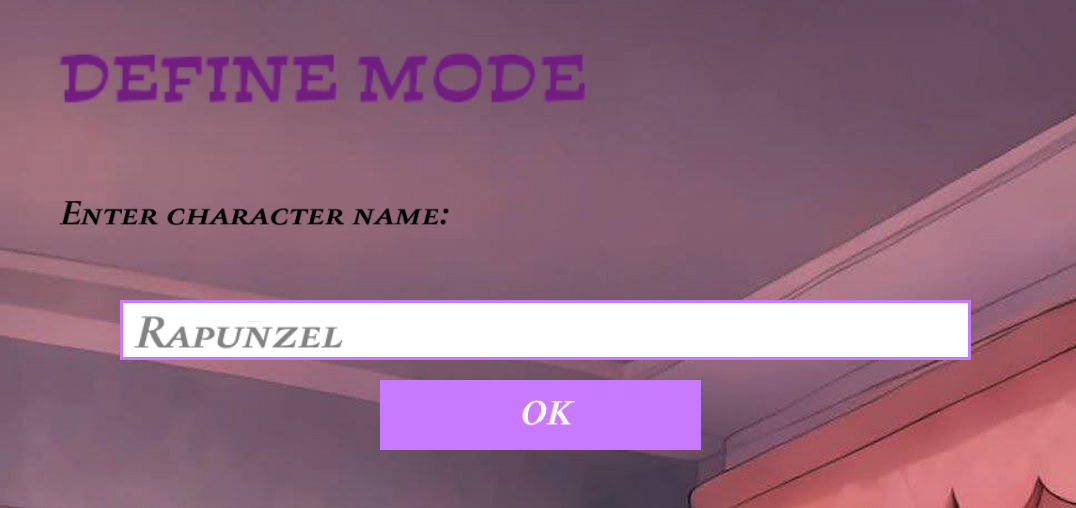
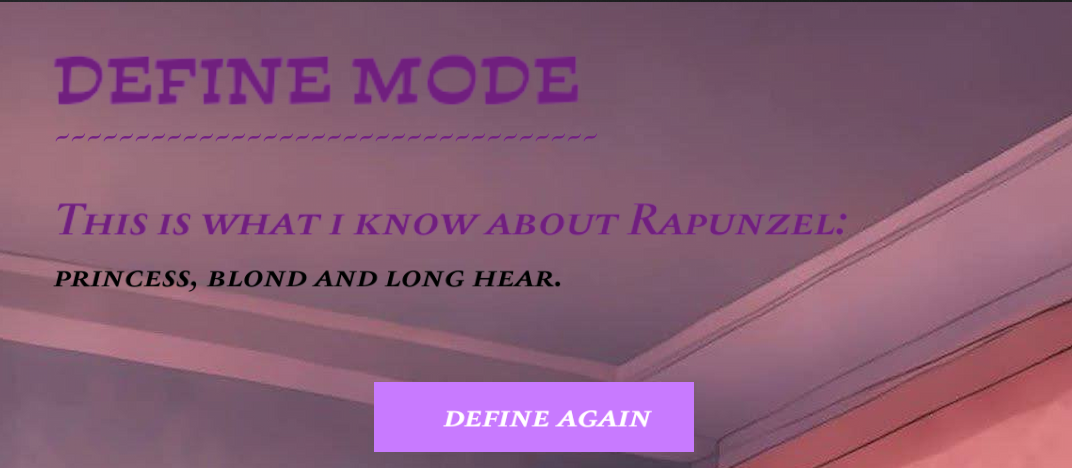
Update Def and Dif modes

diff --git a/BIN_TREE/graph_tree_dump.html b/BIN_TREE/graph_tree_dump.html
@@ -7,96 +7,96 @@ Dump was summoned in
 
 Current parametres:
 ====== struct TREE_T ======
-       list: [000000989B5FFB48]    
-       root: [000001F517AF49D0]    
+       list: [000000F5EDFFF618]    
+       root: [0000025E26A81A20]    
 
 
 ===== DATA =====
-node [ 000001F517AF49D0 ]
+node [ 0000025E26A81A20 ]
 value: princess
-left node [ 000001F517AF4A70 ]
-right node [ 000001F517AF4D30 ]
+left node [ 0000025E26A81760 ]
+right node [ 0000025E26A814A0 ]
 
 
-node [ 000001F517AF4A70 ]
+node [ 0000025E26A81760 ]
 value: blond
-left node [ 000001F517AF4870 ]
-right node [ 000001F517AF47B0 ]
+left node [ 0000025E26A814E0 ]
+right node [ 0000025E26A81560 ]
 
 
-node [ 000001F517AF4870 ]
+node [ 0000025E26A814E0 ]
 value: long hear
-left node [ 000001F517AF48D0 ]
-right node [ 000001F517AF48F0 ]
+left node [ 0000025E26A815C0 ]
+right node [ 0000025E26A81880 ]
 
 
-node [ 000001F517AF48D0 ]
+node [ 0000025E26A815C0 ]
 value: Rapunzel
 left node [ 0000000000000000 ]
 right node [ 0000000000000000 ]
 
 
-node [ 000001F517AF48F0 ]
+node [ 0000025E26A81880 ]
 value: Cenderella
 left node [ 0000000000000000 ]
 right node [ 0000000000000000 ]
 
 
-node [ 000001F517AF47B0 ]
+node [ 0000025E26A81560 ]
 value: red hear
-left node [ 000001F517AF4B50 ]
-right node [ 000001F517AF4B70 ]
+left node [ 0000025E26A814C0 ]
+right node [ 0000025E26A818A0 ]
 
 
-node [ 000001F517AF4B50 ]
+node [ 0000025E26A814C0 ]
 value: Mirida
 left node [ 0000000000000000 ]
 right node [ 0000000000000000 ]
 
 
-node [ 000001F517AF4B70 ]
+node [ 0000025E26A818A0 ]
 value: Moana
 left node [ 0000000000000000 ]
 right node [ 0000000000000000 ]
 
 
-node [ 000001F517AF4D30 ]
+node [ 0000025E26A814A0 ]
 value: animal
-left node [ 000001F517AF49F0 ]
-right node [ 000001F517AF4990 ]
+left node [ 0000025E26A81620 ]
+right node [ 0000025E26A81A60 ]
 
 
-node [ 000001F517AF49F0 ]
+node [ 0000025E26A81620 ]
 value: boar
-left node [ 000001F517AF4DD0 ]
-right node [ 000001F517AF4950 ]
+left node [ 0000025E26A81540 ]
+right node [ 0000025E26A81960 ]
 
 
-node [ 000001F517AF4DD0 ]
+node [ 0000025E26A81540 ]
 value: Pumba
 left node [ 0000000000000000 ]
 right node [ 0000000000000000 ]
 
 
-node [ 000001F517AF4950 ]
+node [ 0000025E26A81960 ]
 value: Meerkat
-left node [ 000001F517AF4970 ]
-right node [ 000001F517AF4DF0 ]
+left node [ 0000025E26A816C0 ]
+right node [ 0000025E26A81500 ]
 
 
-node [ 000001F517AF4970 ]
+node [ 0000025E26A816C0 ]
 value: Timon
 left node [ 0000000000000000 ]
 right node [ 0000000000000000 ]
 
 
-node [ 000001F517AF4DF0 ]
+node [ 0000025E26A81500 ]
 value: Lion King
 left node [ 0000000000000000 ]
 right node [ 0000000000000000 ]
 
 
-node [ 000001F517AF4990 ]
+node [ 0000025E26A81A60 ]
 value: Aladin
 left node [ 0000000000000000 ]
 right node [ 0000000000000000 ]

diff --git a/AKINATOR_GAME/GAME_APP/app_def_dif.cpp b/AKINATOR_GAME/GAME_APP/app_def_dif.cpp
@@ -74,6 +74,7 @@ app_error_t update_define(app_state_t* app)
 app_error_t draw_define(app_state_t* app, Font font_text, Font font_headers)
 {
     DrawTextEx(font_headers, "DEFINE MODE", (Vector2){60, 50}, 70, 1, DARKPURPLE);
+    DrawTextEx(font_text, "~~~~~~~~~~~~~~~~~~~~~~~~~~~~~~~~~~", (Vector2){60, 120}, 30, 1, DARKPURPLE);
     draw_button(get_back_button(), "back", font_text);
 
     if (app->mode_stage == MODE_INPUT_FIRST)
@@ -94,24 +95,48 @@ app_error_t draw_define(app_state_t* app, Font font_text, Font font_headers)
         DrawTextEx(font_text, "Sorry, unknown character", (Vector2){60, 200}, 30, 1, MAROON);
     }
 
-    else 
+    else
     {
-        DrawTextEx(font_text, TextFormat("This is what i know about %s", app->name_buffer), (Vector2){60, 200}, 30, 1, DARKPURPLE);
+        DrawTextEx(font_text, TextFormat("This is what i know about %s:", app->name_buffer),
+                  (Vector2){60, 200}, 40, 1, DARKPURPLE);
+
+        char sentence[MAX_SENTENCE_SIZE] = "";
 
         for (size_t i = 0; i < path_size; i++)
         {
-            if (path[i].answer == false)
+            strcat(sentence, path[i].answer ? "" : "not");
+            strcat(sentence, (const char*) path[i].question_node->value);
+
+            if (i == path_size - 2)
             {
-                DrawTextEx(font_text, TextFormat("%s  : %s", path[i].question_node->value, "no"), 
-                          (Vector2){60, 260 + (float) 35 * i}, 30, 1, BLACK);
+                strcat(sentence, " and ");
             }
 
-            else 
+            else if (i < path_size - 1)
             {
-                DrawTextEx(font_text, TextFormat("%s  : %s", path[i].question_node->value, "yes"), 
-                          (Vector2){60, 260 + (float) 35 * i}, 30, 1, BLACK);
+                strcat(sentence, ", ");
+            }
+
+            else
+            {
+                strcat(sentence, ".");
             }
         }
+
+        size_t line_length = 0;
+
+        for (size_t i = 0; sentence[i] != '\0'; i++)
+        {
+            line_length++;
+
+            if (line_length >= 40 && sentence[i] == ' ')
+            {
+                sentence[i] = '\n';
+                line_length = 0;
+            }
+        }
+
+        DrawTextEx(font_text, sentence, (Vector2){60, 260}, 30, 1, BLACK);
     }
 
     draw_button(get_single_button(), "define again", font_text);
@@ -155,6 +180,7 @@ app_error_t update_difference(app_state_t* app)
 app_error_t draw_difference(app_state_t* app, Font font_text, Font font_headers)
 {
     DrawTextEx(font_headers, "DIFFERENCE MODE", (Vector2){60, 50}, 70, 1, DARKPURPLE);
+    DrawTextEx(font_text, "~~~~~~~~~~~~~~~~~~~~~~~~~~~~~~~~~~~~~~~~~~~~~", (Vector2){60, 120}, 30, 1, DARKPURPLE);
     draw_button(get_back_button(), "back", font_text);
 
     if (app->mode_stage == MODE_INPUT_FIRST)
@@ -199,37 +225,52 @@ app_error_t draw_difference(app_state_t* app, Font font_text, Font font_headers)
         return APP_SUCCESS;
     }
 
-    DrawTextEx(font_text, TextFormat("The %s is similar to %s in that they both", app->name_buffer, app->question_buffer), (Vector2){60, 200}, 35, 1, BLACK);
-    
     char buffer[1024] = {};
+    size_t used = 0;
     size_t ptr = 0;
-    
-    while (ptr < first_size && ptr < second_size && first_path[ptr].question_node == second_path[ptr].question_node &&
-            first_path[ptr].answer == second_path[ptr].answer)
+
+    while (ptr < first_size && ptr < second_size &&
+           first_path[ptr].question_node == second_path[ptr].question_node &&
+           first_path[ptr].answer == second_path[ptr].answer)
     {
-        if (ptr >= first_size || ptr >= second_size)
-        {
-            DrawTextEx(font_text, "It is the same character.", (Vector2){60, 200}, 35, 1, BLACK);
+        int written = snprintf(buffer + used, sizeof(buffer) - used,
+                               "%s%s%s",
+                               ptr > 0 ? ", " : "",
+                               first_path[ptr].answer ? "" : "not ",
+                               (char*) first_path[ptr].question_node->value);
+
+        if (written < 0 || (size_t) written >= sizeof(buffer) - used)
             break;
-        }
 
-        snprintf(buffer, 1024, "%s %s, ",  first_path[ptr].answer ? "" : "not", (char*) first_path[ptr].question_node->value);
+        used += (size_t) written;
+        ptr++;
     }
-    
-    DrawTextEx(font_text, buffer, (Vector2){60, 240}, 35, 1, BLACK);
 
-    while (ptr < first_size && ptr < second_size)
+    if (ptr > 0)
     {
-
+        DrawTextEx(font_text, TextFormat("%s and %s are similar: they both %s.",
+                              app->name_buffer, app->question_buffer, buffer), (Vector2){60, 200}, 30, 1, BLACK);
     }
-        DrawTextEx(font_text, "Differences:", (Vector2){60, 200}, 40, 1, DARKPURPLE);
-        DrawTextEx(font_text, TextFormat("%s?", (char*) first_path[ptr].question_node->value),
-                    (Vector2){60, 260}, 35, 1, BLACK);
-        DrawTextEx(font_text, TextFormat("%s: %s", app->name_buffer, first_path[ptr].answer ? "YES" : "NO"),
-                    (Vector2){60, 300}, 35, 1, BLACK);
-        DrawTextEx(font_text, TextFormat("%s: %s", app->question_buffer, second_path[ptr].answer ? "YES" : "NO"),
-                    (Vector2){60, 340}, 35, 1, BLACK);
 
+    if (ptr >= first_size || ptr >= second_size)
+    {
+        DrawTextEx(font_text, "They are identical!", (Vector2){60, 320}, 35, 1, DARKPURPLE);
+    }
+    else
+    {
+        char* quest = (char*) first_path[ptr].question_node->value;
+
+        DrawTextEx(font_text, "Differences:", (Vector2){60, 270}, 35, 1, DARKPURPLE);
+
+        DrawTextEx(font_text, TextFormat("%s %s %s, but %s %s %s.",
+                              app->name_buffer,
+                              first_path[ptr].answer ? "is" : "is not", quest,
+                              app->question_buffer,
+                              second_path[ptr].answer ? "is" : "is not", quest), 
+                              (Vector2){60, 310}, 30, 1, BLACK);
+    }
+
+    draw_button(get_single_button(), "compare again", font_text);
 
     return APP_SUCCESS;
 }

diff --git a/AKINATOR_GAME/GAME_APP/app_guess.cpp b/AKINATOR_GAME/GAME_APP/app_guess.cpp
@@ -331,7 +331,7 @@ app_error_t draw_guess(app_state_t* app, Font font_text, Font font_headers)
 {
     if (app == NULL) return APP_ERROR;
     DrawTextEx(font_headers, "GUESS MODE", (Vector2){60, 50}, 70, 1, DARKPURPLE);
-    DrawTextEx(font_text, "~~~~~~~~~~~~~~~~~~~~~~~~~~~~~~~~~~~~~", (Vector2){60, 120}, 30, 1, DARKPURPLE);
+    DrawTextEx(font_text, "~~~~~~~~~~~~~~~~~~~~~~~~~~~~~~~~", (Vector2){60, 120}, 30, 1, DARKPURPLE);
     draw_button(get_back_button(), "back", font_text);
 
     char* text = (char*) app->current_node->value;

diff --git a/AKINATOR_GAME/GAME_APP/app_def_dif.h b/AKINATOR_GAME/GAME_APP/app_def_dif.h
@@ -4,7 +4,9 @@
 #include "app_common.h"
 #include "app_buttons.h"
 #include "../../AKINATOR_GAME/CONSOLE/akinator.h"
+#include "string.h"
 
+const size_t MAX_SENTENCE_SIZE = 2048;
 void reset_mode_input(app_state_t* app);
 
 app_error_t update_define(app_state_t* app);

diff --git a/README.md b/README.md
@@ -89,4 +89,3 @@ sudo apt install build-essential graphviz
 _Графический Dump_ - текстовый и графический вывод состяния дерева, который нужен для более эффективной отладки программы. В графике в узлах выводятся указатели на левые и правые узлы, указатель самого узла и значение, которое в нем лежит. Пример dumpа для реализованной игры:
 
 <img src="BIN_TREE\report\tree0.png" alt="Графический Dump" width="700">
-
